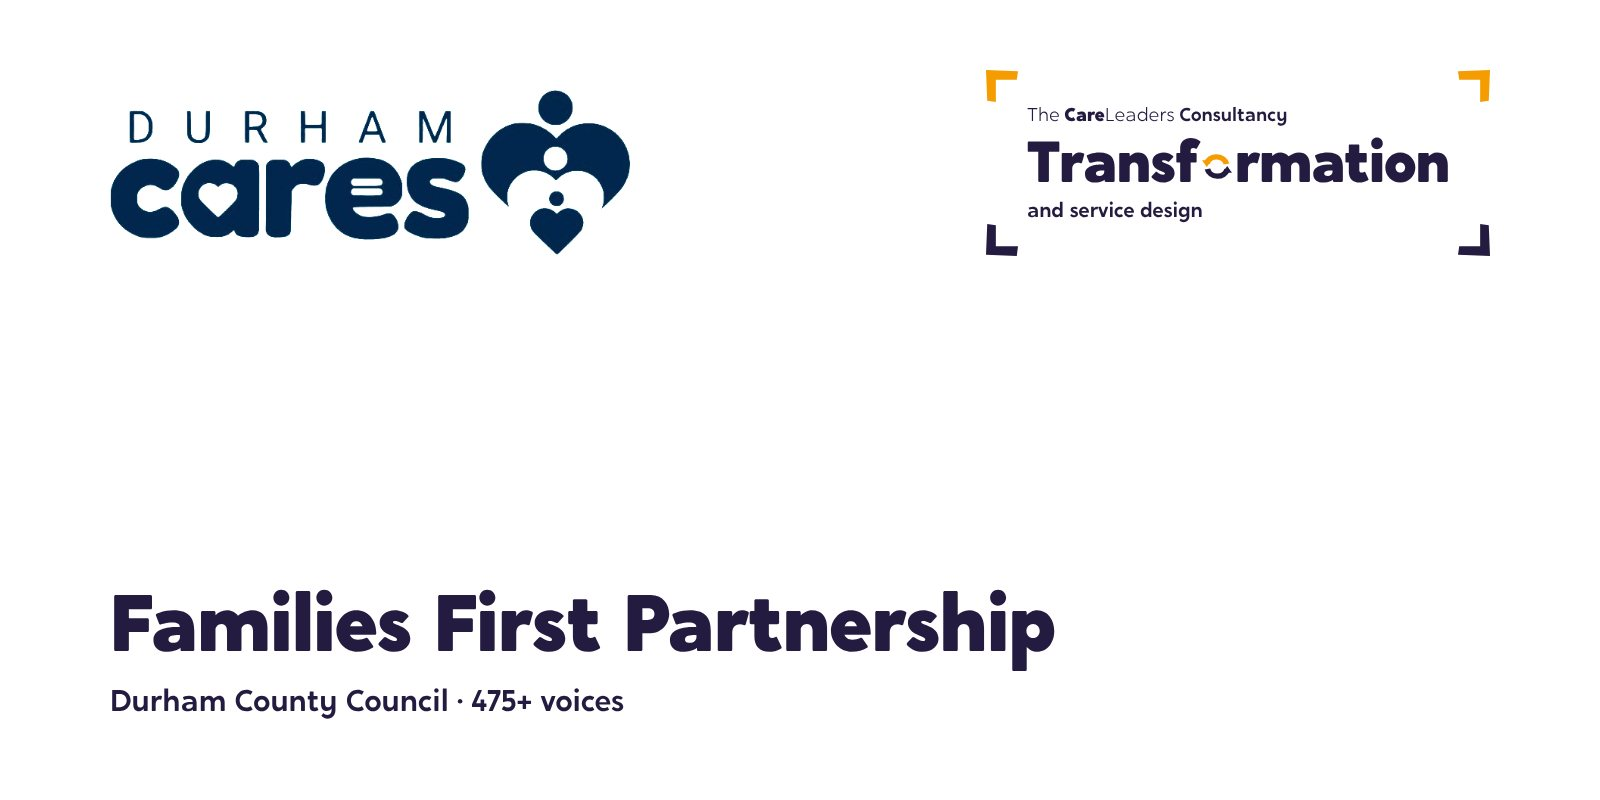
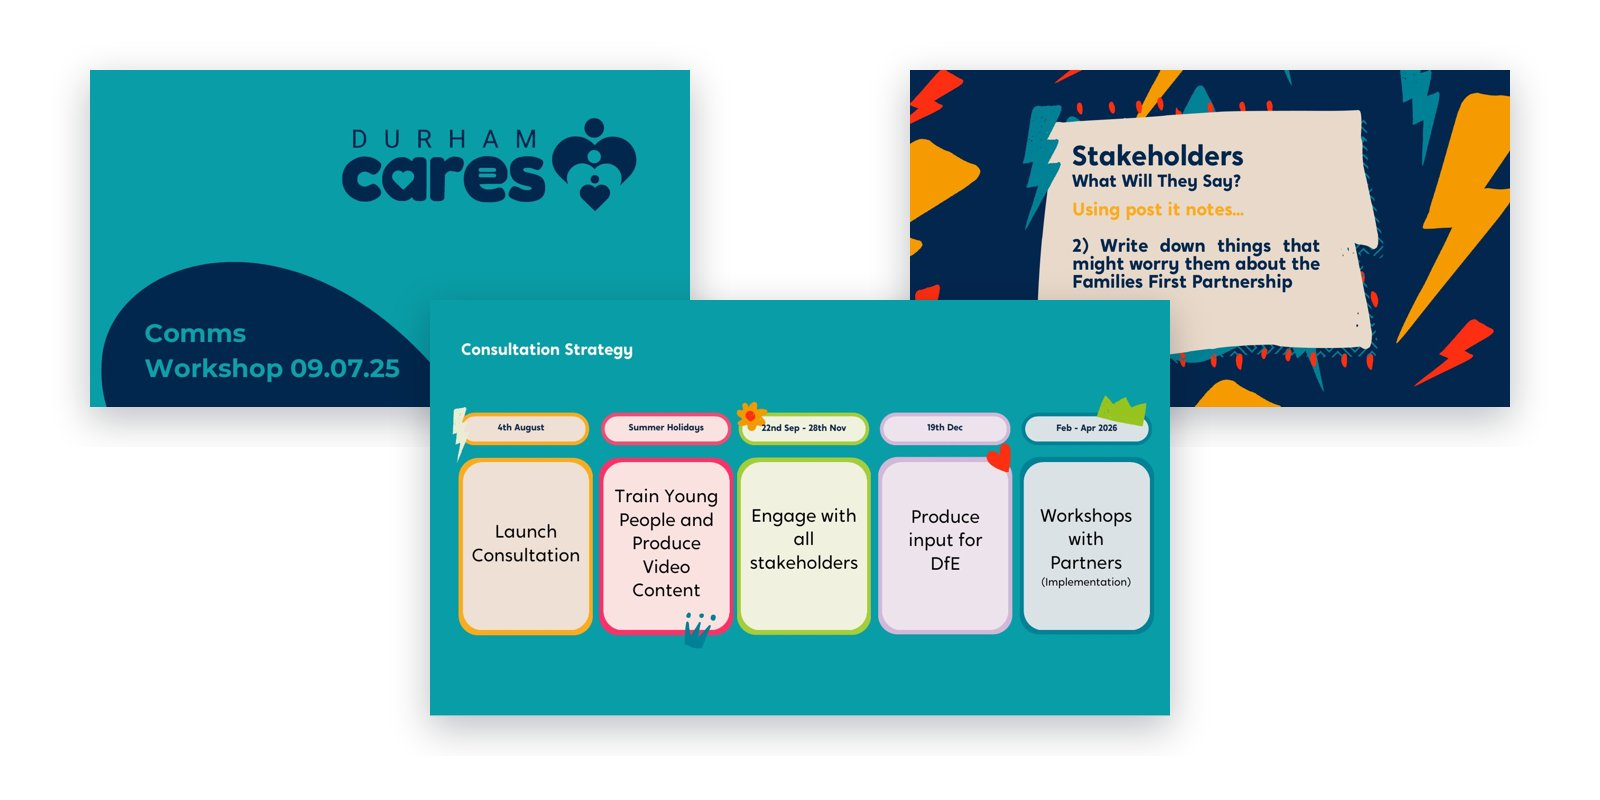
Durham Families First: See the work rebuilt as six exhibits (comms workshop, stretch goals and stakeholders, methods, reach, young people's voice, report structure), five workstreams explorer, comms workshop hero, callout. Method and outputs only; no Stage 2 findings.
Claude-Session: https://claude.ai/code/session_01MCpohyGStY6gFxFtJoqhLr

diff --git a/case-study-durham-families-first.html b/case-study-durham-families-first.html
@@ -104,17 +104,20 @@
         <h2 class="h2" id="heard">What we heard</h2>
         <p>Across the teams and the families we heard the same things in different words. Families had to repeat their story every time they moved between services, and wanted the same worker to stay with them. In Durham&#8217;s rural communities, the distance families travel to get help came up again and again. And families wanted information they could actually understand.</p>
         <h2 class="h2" id="changed">What changed</h2>
-        <p>The consultation&#8217;s recommendations are now shaping the co-design phase of Durham&#8217;s reforms. Partners and staff have said that being consulted early, and having the chance to shape the reforms, reflects Durham&#8217;s collaborative way of working. The young people who took part in the filming week developed real skills in interviewing, recording and storytelling, and the films are now used in engagement and induction.</p>
+        <div class="cs-callout"><p class="cs-callout-h">Reform built on what staff and families said first.</p><p>The consultation&#8217;s recommendations are now shaping the co-design phase of Durham&#8217;s reforms.</p></div>
+        <p>Partners and staff have said that being consulted early, and having the chance to shape the reforms, reflects Durham&#8217;s collaborative way of working. The young people who took part in the filming week developed real skills in interviewing, recording and storytelling, and the films are now used in engagement and induction.</p>
       </div>
     </div>
   </section>
 
-  <section class="section bg-fill" id="see-the-work">
-    <img class="deco deco-t" src="./assets/img/brand/cons/icons/c25-team.svg" alt="" style="width:56px;right:2%;top:29px;transform:rotate(0deg)">
+  <section class="section bg-fill ex-sec ffp-sec" id="see-the-work">
+    <img class="deco deco-t" src="./assets/img/brand/cons/icons/c14-flipchart.svg" alt="" style="width:60px;right:6%;top:30px;transform:rotate(0deg)">
     <div class="wrap">
       <h2 class="h2">See the work</h2>
-      <p class="h2-sub">What we made, and what it looked like.</p>
-      <div class="stw-boxes"><div class="stw-box"><b>1</b><h3>Consultation</h3><p>Over 475 people heard, from front-line staff to families, before the Families First changes were made.</p></div><div class="stw-box"><b>2</b><h3>Comms workshop</h3><p>A workshop with Durham&#8217;s teams on how to communicate the reforms.</p></div><div class="stw-box"><b>3</b><h3>Launch films</h3><p>Seven short films made with the people who do the work.</p></div></div>
+      <p class="h2-sub">Open any piece to look through it page by page.</p>
+      <div class="dw-wrap dw-1"><div class="dw-intro"><span class="ex-k">Alongside the consultation</span><h3>Five reform workstreams</h3><p>We project-managed all five with each workstream lead. Choose one.</p></div><div class="dw dw-ws" data-dw><p class="dw-l">The five workstreams</p><div class="dw-letters" role="tablist" aria-label="The five workstreams"><button type="button" role="tab" aria-selected="true" tabindex="0" id="dw-ws0" aria-controls="dwp-ws0"><span>1</span><small>Front Door</small></button><button type="button" role="tab" aria-selected="false" tabindex="-1" id="dw-ws1" aria-controls="dwp-ws1"><span>2</span><small>Family Help</small></button><button type="button" role="tab" aria-selected="false" tabindex="-1" id="dw-ws2" aria-controls="dwp-ws2"><span>3</span><small>MACPT</small></button><button type="button" role="tab" aria-selected="false" tabindex="-1" id="dw-ws3" aria-controls="dwp-ws3"><span>4</span><small>Family Group Decision Making</small></button><button type="button" role="tab" aria-selected="false" tabindex="-1" id="dw-ws4" aria-controls="dwp-ws4"><span>5</span><small>Practice</small></button></div><div class="dw-p"><div role="tabpanel" id="dwp-ws0" aria-labelledby="dw-ws0"><b>Front Door</b><p>How families first ask for help, and where that request goes next.</p></div><div role="tabpanel" id="dwp-ws1" aria-labelledby="dw-ws1" hidden><b>Family Help</b><p>Bringing early help and child in need support closer together.</p></div><div role="tabpanel" id="dwp-ws2" aria-labelledby="dw-ws2" hidden><b>MACPT</b><p>Multi-agency child protection teams.</p></div><div role="tabpanel" id="dwp-ws3" aria-labelledby="dw-ws3" hidden><b>Family Group Decision Making</b><p>Families and their networks making plans for their children, earlier.</p></div><div role="tabpanel" id="dwp-ws4" aria-labelledby="dw-ws4" hidden><b>Practice</b><p>The shared way of working that sits under all of it.</p></div></div></div></div>
+      <div class="ex-grid"><button type="button" class="ex-card" data-ex="comms" aria-haspopup="dialog"><span class="ex-cv ex-cv-img"><img src="./assets/img/ffp/cw-09.jpg" alt="" loading="lazy" decoding="async"></span><span class="ex-meta"><span class="ex-tag">Workshop</span><span class="ex-n">5 pages</span></span><strong>Planning the consultation</strong><span class="ex-d">Agreeing how to talk about the reforms before asking anyone anything.</span><span class="ex-open">Open and explore <i aria-hidden="true">&#8594;</i></span></button><template id="ex-comms" data-title="Planning the consultation" data-type="Comms workshop, July 2025"><figure class="ex-s ex-img" data-cap="Comms workshop, 9 July 2025"><img src="./assets/img/ffp/cw-01.jpg" alt="Durham Cares comms workshop title slide" loading="lazy" decoding="async"></figure><figure class="ex-s ex-img" data-cap="The mission: a communication strategy for the design and roll-out of Families First"><img src="./assets/img/ffp/cw-03.jpg" alt="Mission slide" loading="lazy" decoding="async"></figure><figure class="ex-s ex-img" data-cap="How we would get there: problem, solution, action"><img src="./assets/img/ffp/cw-06.jpg" alt="How we will achieve our mission slide" loading="lazy" decoding="async"></figure><figure class="ex-s ex-img" data-cap="The consultation strategy, from launch to workshops with partners"><img src="./assets/img/ffp/cw-09.jpg" alt="Consultation strategy slide" loading="lazy" decoding="async"></figure><figure class="ex-s ex-img" data-cap="Next steps, and the date the report was due"><img src="./assets/img/ffp/cw-21.jpg" alt="Next steps slide" loading="lazy" decoding="async"></figure></template><button type="button" class="ex-card" data-ex="stretch" aria-haspopup="dialog"><span class="ex-cv ex-cv-img"><img src="./assets/img/ffp/cw-16.jpg" alt="" loading="lazy" decoding="async"></span><span class="ex-meta"><span class="ex-tag">Activities</span><span class="ex-n">6 pages</span></span><strong>Stretch goals and stakeholders</strong><span class="ex-d">Who will be affected, what will worry them, and how to answer.</span><span class="ex-open">Open and explore <i aria-hidden="true">&#8594;</i></span></button><template id="ex-stretch" data-title="Stretch goals and stakeholders" data-type="Workshop activities"><figure class="ex-s ex-img" data-cap="Your stretch goal: what do you want Families First to achieve?"><img src="./assets/img/ffp/cw-10.jpg" alt="Stretch goal slide" loading="lazy" decoding="async"></figure><figure class="ex-s ex-img" data-cap="An example of a stretch goal that worked"><img src="./assets/img/ffp/cw-12.jpg" alt="Example stretch goal slide" loading="lazy" decoding="async"></figure><figure class="ex-s ex-img" data-cap="Who will be affected by the changes?"><img src="./assets/img/ffp/cw-15.jpg" alt="Stakeholders activity slide" loading="lazy" decoding="async"></figure><figure class="ex-s ex-img" data-cap="What might worry them?"><img src="./assets/img/ffp/cw-16.jpg" alt="Stakeholder worries activity slide" loading="lazy" decoding="async"></figure><figure class="ex-s ex-img" data-cap="How would you respond, keeping your stretch goal in mind?"><img src="./assets/img/ffp/cw-17.jpg" alt="Reframing worries activity slide" loading="lazy" decoding="async"></figure><figure class="ex-s ex-img" data-cap="In five years, what would those stakeholders say?"><img src="./assets/img/ffp/cw-19.jpg" alt="Five years on activity slide" loading="lazy" decoding="async"></figure></template><button type="button" class="ex-card" data-ex="listen" aria-haspopup="dialog"><span class="ex-cv ex-cv-p"><span>5<small>ways to listen</small></span></span><span class="ex-meta"><span class="ex-tag">Consultation</span><span class="ex-n">1 page</span></span><strong>Five ways to listen</strong><span class="ex-d">Built so every team and family could take part.</span><span class="ex-open">Open and explore <i aria-hidden="true">&#8594;</i></span></button><template id="ex-listen" data-title="Five ways to listen" data-type="Method"><figure class="ex-s ex-panel" data-cap="Five ways to listen"><div class="ex-p"><span class="ex-k">Method</span><h4>Five ways to listen</h4><ul class="ex-list"><li><b>Team workshops</b> Whole teams, in their own space</li><li><b>One-to-ones</b> For the things people won&#8217;t say in a room</li><li><b>Shadowing</b> Alongside social workers on the job</li><li><b>Micro-workshops</b> Short sessions that fit a busy day</li><li><b>Family visits</b> Families on Child in Need, Child Protection, pre-birth and kinship pathways</li></ul></div></figure></template><button type="button" class="ex-card" data-ex="reach" aria-haspopup="dialog"><span class="ex-cv ex-cv-p"><span>475+<small>people heard</small></span></span><span class="ex-meta"><span class="ex-tag">Consultation</span><span class="ex-n">1 page</span></span><strong>Who we heard from</strong><span class="ex-d">475+ people across 50 teams.</span><span class="ex-open">Open and explore <i aria-hidden="true">&#8594;</i></span></button><template id="ex-reach" data-title="Who we heard from" data-type="Reach"><figure class="ex-s ex-panel" data-cap="Who we heard from"><div class="ex-p"><span class="ex-k">August to December 2025</span><h4>Who we heard from</h4><div class="ex-stats"><div><b>375</b><span>practitioners</span></div><div><b>50</b><span>managers</span></div><div><b>50</b><span>families and young people</span></div><div><b>50</b><span>teams</span></div></div><ul class="ex-list"><li><b>11</b> Family Hub teams</li><li><b>14</b> social work teams</li><li><b>8</b> Integrated Family Services teams</li><li><b>17</b> specialist teams, from Early Help to senior leaders</li></ul></div></figure></template><button type="button" class="ex-card" data-ex="youth" aria-haspopup="dialog"><span class="ex-cv ex-cv-p"><span>7<small>launch videos</small></span></span><span class="ex-meta"><span class="ex-tag">Participation</span><span class="ex-n">2 pages</span></span><strong>Young people&#8217;s voice</strong><span class="ex-d">Films made by young people, not about them.</span><span class="ex-open">Open and explore <i aria-hidden="true">&#8594;</i></span></button><template id="ex-youth" data-title="Young people’s voice" data-type="Filming week and engagement"><figure class="ex-s ex-panel" data-cap="Young people behind the camera"><div class="ex-p"><span class="ex-k">Filming week</span><h4>Young people behind the camera</h4><p class="ex-big">In a filming week, young people interviewed and filmed more than 35 practitioners, staff and peers.</p><ul class="ex-list"><li><b>7</b> launch videos made by and featuring young people</li><li><b>1</b> podcast</li><li><b>1</b> documentary following a care-experienced practitioner</li></ul></div></figure><figure class="ex-s ex-panel" data-cap="Alongside the care leavers team"><div class="ex-p"><span class="ex-k">Youth engagement</span><h4>Alongside the care leavers team</h4><ul class="ex-list"><li><b>Creative workshops</b> Youth-led, with Durham&#8217;s care leavers team</li><li><b>Coaching</b> For practitioners in the participation team</li><li><b>A strategy</b> For a new Care Leavers Network</li></ul></div></figure></template><button type="button" class="ex-card" data-ex="report" aria-haspopup="dialog"><span class="ex-cv ex-cv-p"><span>11<small>sections, findings to action</small></span></span><span class="ex-meta"><span class="ex-tag">Report</span><span class="ex-n">1 page</span></span><strong>The report</strong><span class="ex-d">Built so leaders could answer what they heard.</span><span class="ex-open">Open and explore <i aria-hidden="true">&#8594;</i></span></button><template id="ex-report" data-title="The report" data-type="Report structure"><figure class="ex-s ex-panel" data-cap="From what we heard to what happens next"><div class="ex-p"><span class="ex-k">How the report was built</span><h4>From what we heard to what happens next</h4><ul class="ex-list"><li><b>Development</b> How the strategy was built, and who we heard from</li><li><b>Core findings</b> Themes, each linked back to its sources</li><li><b>Strategic objectives</b> Synthesised from the findings</li><li><b>Action plan</b> Leaders respond directly to what people said</li><li><b>Training</b> What staff need to make each objective real</li><li><b>Governance</b> Roles, sub-groups and reporting, tied to the workstreams</li><li><b>Sustainability</b> A three-year plan so the change sticks</li></ul></div></figure></template></div>
+      
     </div>
   </section>
 
@@ -154,6 +157,7 @@
 
 <script src="./assets/nav.js?v=6"></script>
 <script src="./assets/work.js"></script>
+<script src="./assets/exhibits.js?v=2" defer></script>
 <script src="./assets/prog.js?v=2" defer></script>
 <script>(function(){var c=document.querySelector('[data-carousel]');if(!c)return;var t=c.querySelector('.kn-track');c.querySelectorAll('.kn-btn').forEach(function(b){b.addEventListener('click',function(){var s=t.querySelector('.kn-slide');var w=s?s.getBoundingClientRect().width+20:400;t.scrollBy({left:w*Number(b.dataset.dir),behavior:'smooth'})})})})();</script>
 </body>

diff --git a/assets/styles.css b/assets/styles.css
@@ -2582,4 +2582,5 @@ h1 .h1-k{display:block!important;font-family:Poppins,sans-serif!important;font-w
 .navsh-sec{--exa:#0b6b70;--exb:#0f3b46;--exl:#f2c230}
 .staffs-sec{--exa:#b4520c;--exb:#2b2350;--exl:#f5a524}
 .pwc-sec{--exa:#b8470f;--exb:#2d2d2d;--exl:#ffb600}
+.ffp-sec{--exa:#007a85;--exb:#14294b;--exl:#45c1c9}
 .dw-wrap.dw-1{grid-template-columns:minmax(0,.8fr) minmax(0,2.1fr)}@media(max-width:980px){.dw-wrap.dw-1{grid-template-columns:1fr}}
